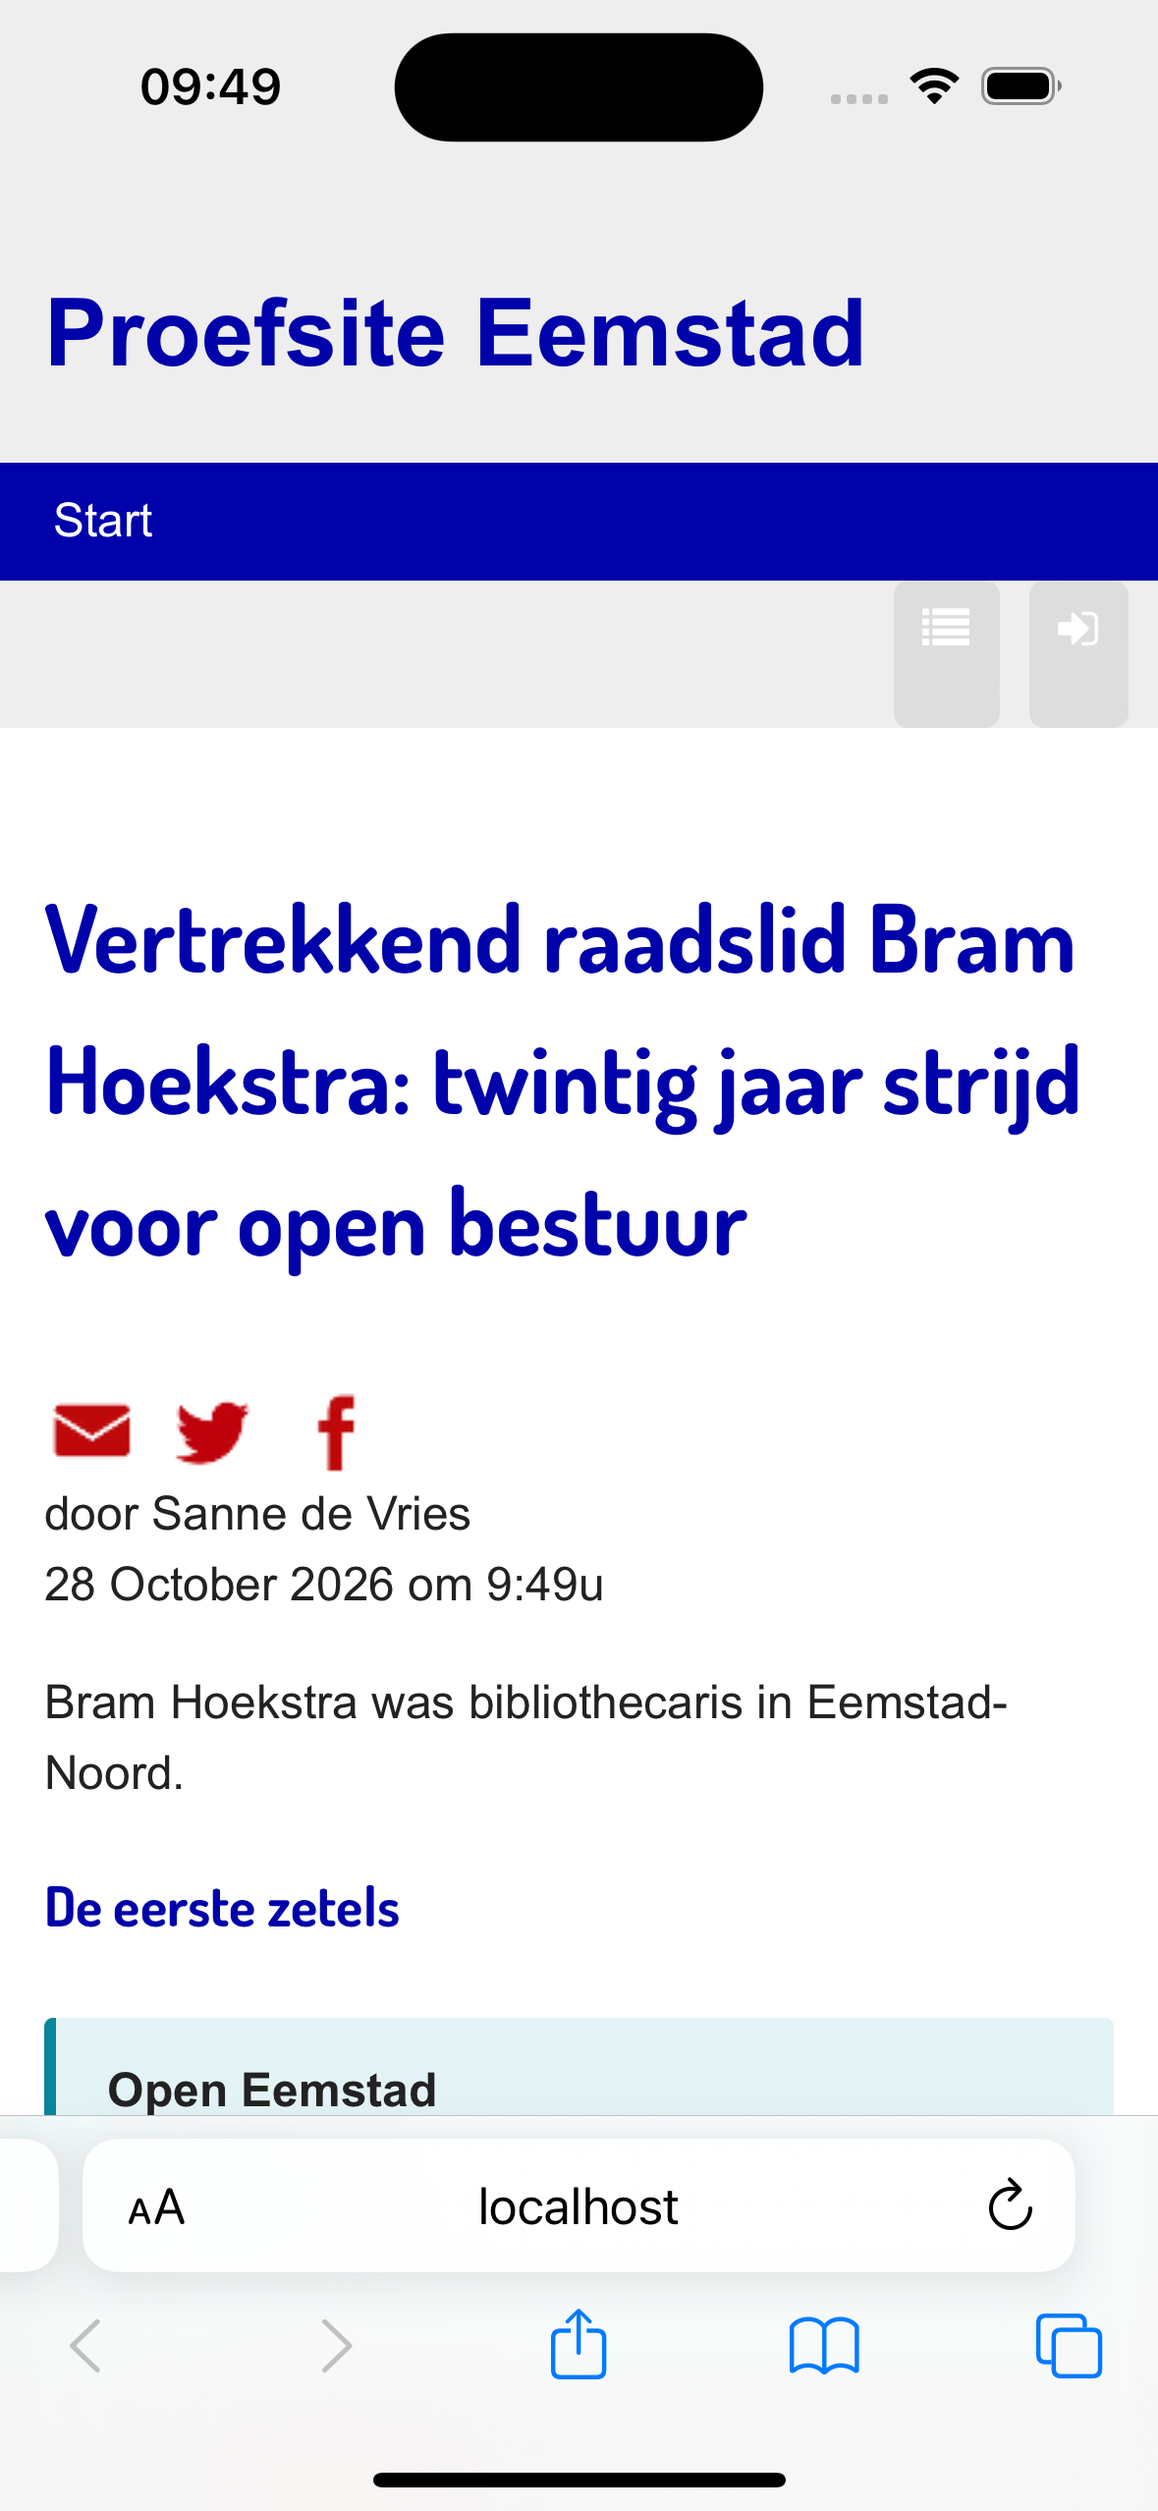
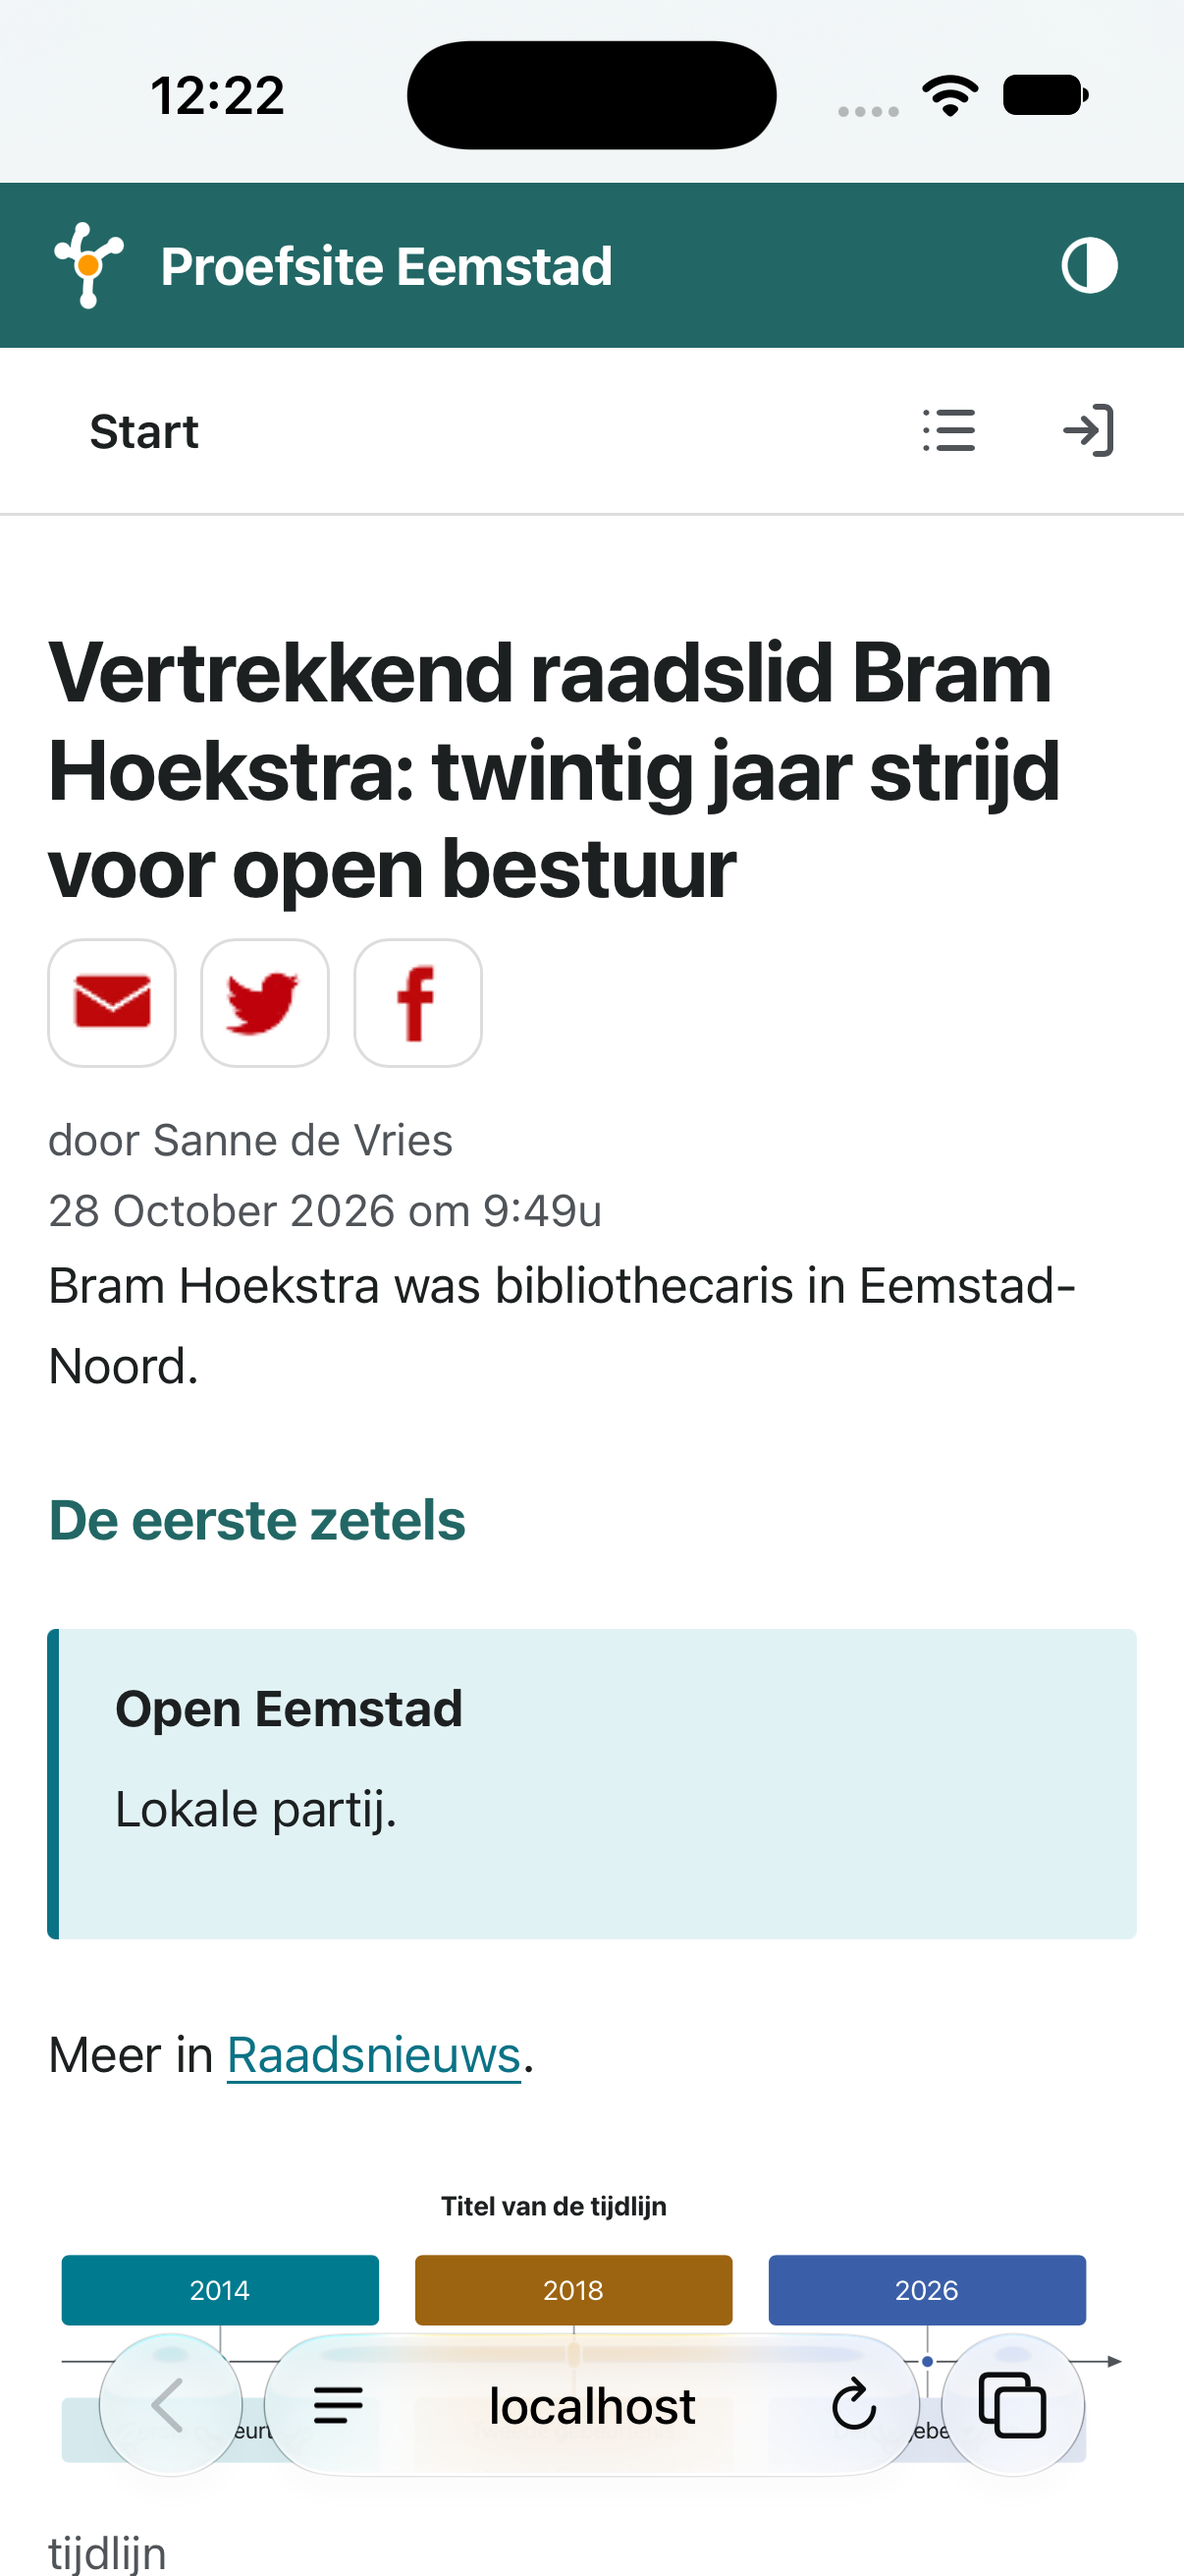
docs: Reading, commenting and editing on iPhone and Android in the handbook
The section on phones and tablets in "Een artikel schrijven" now shows
reading an article, adding a comment and editing an article, on iOS 27
with Safari and on Android 15 with Chrome, all in the theme hyphae on
the fictional test site.

diff --git a/docs/handleiding/gebruik/04-artikel-schrijven.md b/docs/handleiding/gebruik/04-artikel-schrijven.md
@@ -1,6 +1,6 @@
 ---
 title: "Een artikel schrijven"
-revision: 6
+revision: 7
 date_created: 2026-10-27
 date_last_review:
 ---
@@ -198,13 +198,19 @@ Zo lang een verplichte controle niet in orde is, kun je de beoordeling niet star
 
 Verder lezen: [Een artikel beoordelen en publiceren](05-beoordelen-en-publiceren.md).
 
-## Op iPhone en iPad
+## Op een telefoon of tablet
 
-![De editor op een iPhone, met de werkbalk onderaan](../afbeeldingen/artikel-telefoon.png)
+De editor werkt op iPhone, iPad en Android. De schermen hieronder komen van een iPhone (iOS 27, Safari) en een Android-telefoon (Android 15, Chrome).
 
-1. De werkbalk staat boven het toetsenbord; elke knop is groot genoeg om met een vinger te raken.
+| | iPhone | Android |
+|---|---|---|
+| **Een artikel lezen** | ![Een artikel gelezen op een iPhone](../afbeeldingen/ios-artikel-lezen.png) | ![Een artikel gelezen op een Android-telefoon](../afbeeldingen/android-artikel-lezen.png) |
+| **Een reactie geven** | ![Een reactie typen onder een artikel op een iPhone](../afbeeldingen/ios-reactie-toevoegen.png) | ![Een reactie typen onder een artikel op een Android-telefoon](../afbeeldingen/android-reactie-toevoegen.png) |
+| **Een artikel bewerken** | ![De editor op een iPhone, met de werkbalk boven het toetsenbord](../afbeeldingen/ios-artikel-bewerken.png) | ![De editor op een Android-telefoon, met de werkbalk onderaan](../afbeeldingen/android-artikel-bewerken.png) |
+
+1. De werkbalk staat onderaan het scherm. Zodra het toetsenbord opent, schuift hij erboven. Elke knop is groot genoeg om met een vinger te raken.
 2. Autocorrectie, woordsuggesties en dicteren werken, in Opmaak en in Markdown.
-3. Op een smal scherm wissel je tussen **Schrijven** en **Voorbeeld** in plaats van ze naast elkaar te zien.
+3. Op een smal scherm wissel je met het potlood en het oog tussen **Schrijven** en **Voorbeeld**, in plaats van ze naast elkaar te zien.
 
 ## Oudere artikelen
 
